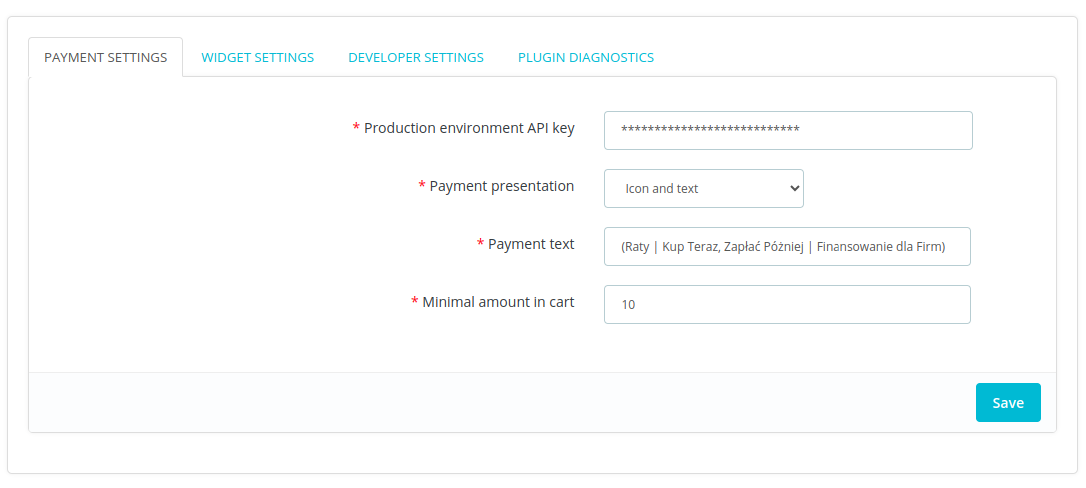
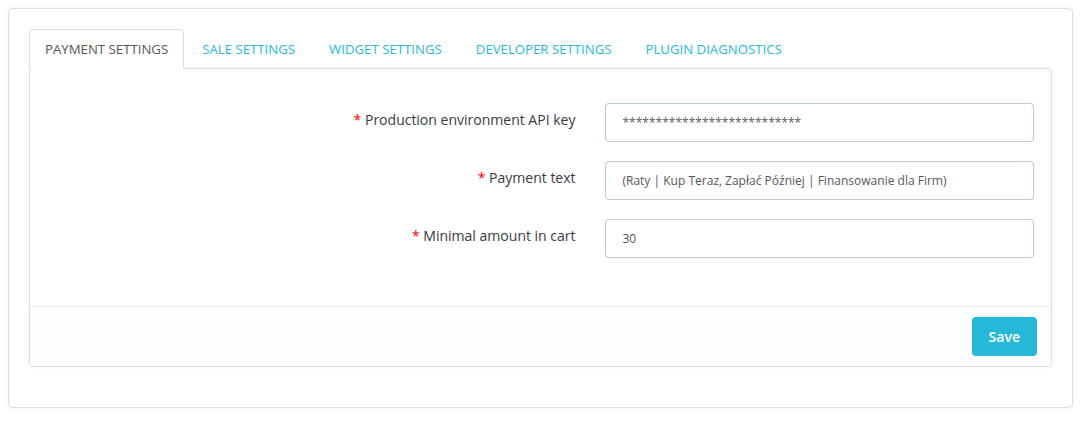
FN-12563 Documentation updated (EN version).

diff --git a/docs/comfino.en.md b/docs/comfino.en.md
@@ -38,7 +38,6 @@ Configuration parameter fields:
 **PAYMENT SETTINGS**
 
 * **Production environment API key** — a unique access key that allows the module to communicate with the Comfino API (you will receive it from a Comfino representative)
-* **Payment presentation** — the way Comfino is presented on the list of payment methods [`Only icon`, `Only text`, `Icon and text`]
 * **Payment text** — text displayed on the list of payment methods (default `"(Raty | Kup Teraz, Zapłać Póżniej | Finansowanie dla Firm)"`)
 * **Minimal amount in cart** — the value of the cart from which Comfino payment is available (default: 30 PLN)
 
@@ -48,21 +47,23 @@ Configuration parameter fields:
 
 The tab contains settings related to sales management.
 
-Financial product availability rules (product category filters) enable Comfino payments to be assigned to specific product categories. Category filters are divided into sections corresponding to available methods of financing purchases under the contract concluded with Comfino. Moreover, managing the availability of Comfino payments is only possible for the following types of financial products: "Zero percent installments", "Pay later". If the concluded contract does not include one or all of these items, the tab will contain a list of trees limited to this one financing method or it will contain a list of trees for other types of products from the contract, if the contract does not include the "Zero percent installments" and "Pay later" products.
+Financial product availability rules (product category filters) enable Comfino payments to be assigned to specific product categories. Category filters are divided into sections corresponding to available methods of financing purchases under the contract concluded with Comfino. Moreover, managing the availability of Comfino payments is only possible for the following types of financial products: "Zero percent installments", "Pay later", "Leasing". If the concluded contract does not include one or all of these items, the tab will contain a list of trees limited to this one financing method or it will contain a list of trees for other types of products from the contract, if the contract does not include the "Zero percent installments", "Pay later" and "Leasing" products.
 
 By default, Comfino payments are available unconditionally for all product types. To disable Comfino for selected product types, uncheck the appropriate categories in the category tree for each type of financial offer and click "Save".
 
-![Configuration](images/en/configuration6.png "Configuration")
+![Configuration](images/en/configuration2.png "Configuration")
 
 **WIDGET SETTINGS**
 
 **Basic Settings**
 
 * **Widget is active?** — promotional widget activation/deactivation switch on the product page
-* **Widget type** — way of presenting the widget [`Textual widget`, `Graphical widget with banner`, `Graphical widget with installments calculator` , `Graphical widget with extended installments calculator`]
-* **Offer type** — type of financing offer promoted [`Zero percent installments`, `Convenient installments`, `Pay later`, `Deferred payments for companies`]
+* **Widget type** — way of presenting the widget [`Installment calculator`, `Extended calculator - products`]
+* **Offer types** — types of financing offers promoted [`Zero percent installments`, `Convenient installments`, `Pay later`, `Installments for companies`, `Deferred payments for companies`, `Leasing`]
 
 The availability of offer types on the list depends on the individual contract and may differ from that described in the documentation.
+
+![Configuration](images/en/configuration3a.png "Configuration")
 
 **Advanced settings**
 
@@ -75,14 +76,20 @@ The availability of offer types on the list depends on the individual contract a
 
 Detailed information on the operation of the widget and its configuration options can be found in a separate [Comfino widget documentation](https://comfino.pl/widgets/comfino-prestashop/en).
 
-![Configuration](images/en/configuration2.png "Configuration")
+![Configuration](images/en/configuration3b.png "Configuration")
 
 **DEVELOPER SETTINGS**
 
 * **Use test environment** — developer mode activation/deactivation switch
 * **Test environment API key** — a unique access key enabling the module to communicate with the Comfino test API
+* **Debug mode** — debug mode activation/deactivation switch
+* **Service mode** — service mode activation/deactivation switch
 
-![Configuration](images/en/configuration3.png "Configuration")
+Debug mode is useful in case of problems with Comfino payment availability. In this mode module logs details of internal process responsible for displaying of Comfino payment option at the payment methods list. It is recommended to use this option together with activating the second option `"Service mode"` to minimize the saved logs.
+
+Debug mode is useful in case of problems with Comfino payment availability. In this mode module logs details of internal process responsible for displaying of Comfino payment option at the payment methods list.
+
+![Configuration](images/en/configuration4.png "Configuration")
 
 **Note**
 
@@ -91,14 +98,12 @@ Before launching payments on the production store, disable developer mode to blo
 **PLUGIN DIAGNOSTICS**
 
 The tab contains technical information about the plugin and the environment (plugin version, store version, PHP and web server version, etc.).\
-It also contains a list of recent errors with a preview of the local error log.
+It also contains a list of recent errors with a preview of the local error log and a list of the plugin's internal operations recorded in debug mode (debug mode log).
 
-![Configuration](images/en/configuration4.png "Configuration")
+![Configuration](images/en/configuration5.png "Configuration")
 
 Information about developer mode activity is displayed in the tabs `"PAYMENT SETTINGS"` and `"PLUGIN DIAGNOSTICS"`.
 In this mode, the plugin uses the key from the `"DEVELOPER SETTINGS"` tab to communicate with the Comfino test API. You will also receive a test environment key from a Comfino representative.
-
-![Configuration](images/en/configuration5.png "Configuration")
 
 ## REMARKS
 
